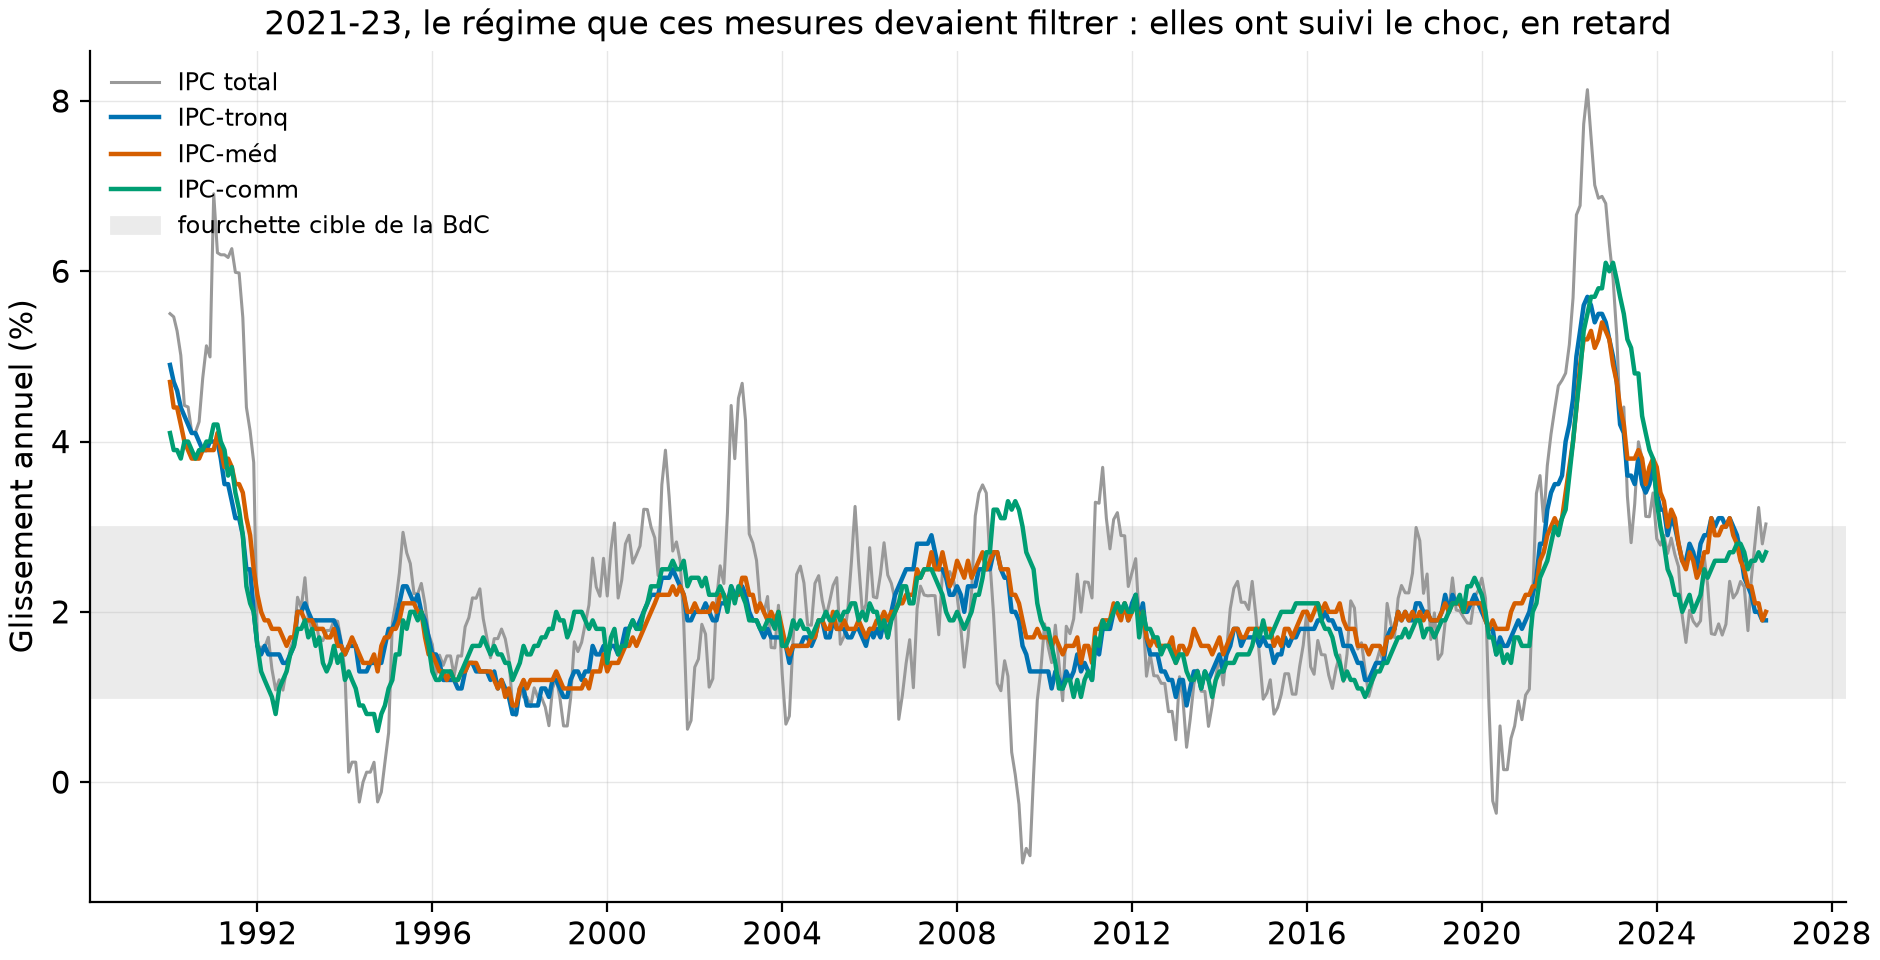
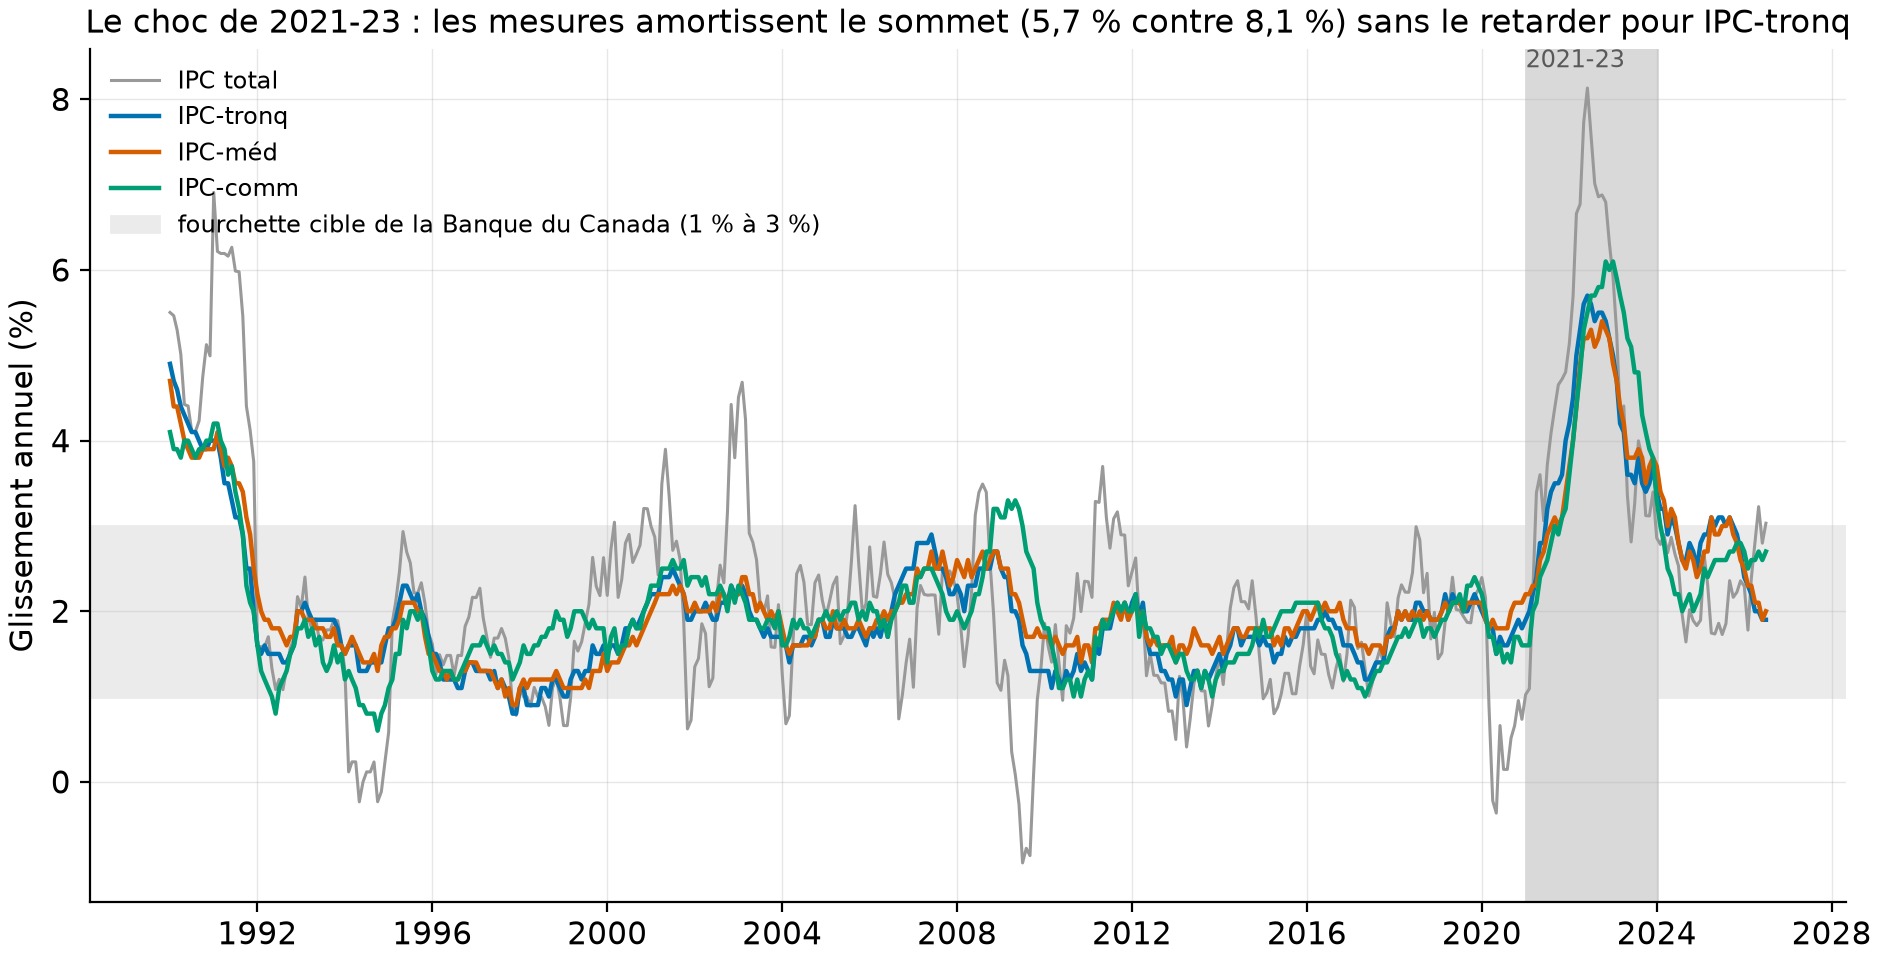
Audit : le concours comparait « tout » à une partie de tout
La barre « échantillon long » couvrait 1990-2024, choc compris, et la barre « récente »
2016-2024 : aucune fenêtre s'arrêtant AVANT le choc n'était calculée, et le titre posait
une question qu'aucune des deux barres ne pouvait trancher. Une vraie fenêtre d'avant
(1990-01 à 2015-12) est ajoutée, et le classement d'avant tient : IPC-tronq premier à
0,77 comme à 1,15, IPC-comm dernier des trois mesures officielles partout. Toutes les
mesures perdent de 48 à 65 % de précision.

La fenêtre était aussi mal étiquetée : fin_cible retirait 24 mois à l'horizon 12 comme à
l'horizon 24, si bien que « 2016-2025 » s'arrêtait en juillet 2024. Chaque horizon garde
maintenant ses propres derniers mois (n_h12 = 115, n_h24 = 103).

L'ordonnée annonçait une erreur de PRÉVISION de l'IPC total à 12 mois : c'est le résidu
d'un ajustement DANS l'échantillon, de l'inflation moyenne des douze mois suivants sur la
mesure du mois courant. Elle le dit, en points de pourcentage.

Le contrefactuel des deux composantes tardives, cité trois fois et calculé nulle part,
est produit par lab : 0,056 point pour la tronquée, 0,062 pour la médiane, maximum 0,22
en 2022-04 sur 343 mois. Le « 0,24 au pire » ne se retrouvait pas.

Le titre du choc affirmait un retard des trois mesures : mesuré, l'IPC-tronq culmine le
même mois que l'IPC total, seules les deux autres retardent.

diff --git a/src/infc/figures.py b/src/infc/figures.py
@@ -38,11 +38,31 @@ def fig_choc(officiel: pd.DataFrame, headline: pd.Series, dest: Path) -> None:
         if col in officiel:
             s = officiel[col]
             ax.plot(s.index.to_timestamp(), s, color=color, label=name)
-    ax.axhspan(1, 3, color="0.92", zorder=0, label="fourchette cible de la BdC")
+    ax.axhspan(1, 3, color="0.92", zorder=0,
+               label="fourchette cible de la Banque du Canada (1 % à 3 %)")
+    # la fenêtre du choc occupe un septième de la largeur : sans ombrage, le titre parle d'une
+    # période que le lecteur ne sait pas situer
+    choc = (pd.Period("2021-01", "M").to_timestamp(), pd.Period("2023-12", "M").to_timestamp(how="end"))
+    ax.axvspan(*choc, color="0.85", zorder=0)
+    ax.annotate("2021-23", (choc[0], ax.get_ylim()[1]), fontsize=8.5, color="0.35",
+                ha="left", va="top")
     ax.set_ylabel("Glissement annuel (%)")
     ax.yaxis.set_major_formatter(fr)
     ax.legend(fontsize=8.5, loc="upper left")
-    ax.set_title("2021-23, le régime que ces mesures devaient filtrer : elles ont suivi le choc, en retard")
+    # le titre affirmait un RETARD des trois mesures : mesuré, l'IPC-tronq culmine le même mois
+    # que l'IPC total, seules les deux autres retardent
+    fen = slice(pd.Period("2021-01", "M"), pd.Period("2023-12", "M"))
+    sommet_total = headline.loc[fen].idxmax()
+    sommets = {n: officiel[c].loc[fen].idxmax()
+               for c, n in (("ipc_tronq", "IPC-tronq"), ("ipc_med", "IPC-méd"),
+                            ("ipc_comm", "IPC-comm")) if c in officiel}
+    tronq = officiel["ipc_tronq"].loc[fen].max()
+    retard = {n: (s - sommet_total).n for n, s in sommets.items()}
+    sans_retard = [n for n, d in retard.items() if d == 0]
+    ax.set_title(f"Le choc de 2021-23 : les mesures amortissent le sommet "
+                 f"({tronq:.1f} % contre {headline.loc[fen].max():.1f} %) sans le retarder pour "
+                 f"{', '.join(sans_retard) if sans_retard else 'aucune mesure'}".replace(".", ","),
+                 fontsize=11.5)
     fig.savefig(dest)
     plt.close(fig)
 
@@ -64,25 +84,52 @@ def fig_reconstruction(notre: pd.DataFrame, officiel: pd.DataFrame, dest: Path) 
         mae = float((n.loc[common] - o.loc[common]).abs().mean())
         ax.set_ylabel("Glissement annuel (%)")
         ax.yaxis.set_major_formatter(fr)
-        ax.legend(fontsize=8.5, title=f"écart absolu moyen : {mae:.2f} pt".replace(".", ","))
+        ax.legend(fontsize=8.5,
+                  title=f"écart absolu moyen : {mae:.2f} point de pourcentage".replace(".", ","))
     axes[0].set_title("Les 55 composantes suffisent à retrouver la forme ; les décimales exigent la cuisine officielle")
     fig.savefig(dest)
     plt.close(fig)
 
 
-def fig_concours(full: pd.DataFrame, recent: pd.DataFrame, dest: Path) -> None:
-    """Le critère prédictif à 12 mois, avant et à travers le choc."""
+def fig_concours(avant: pd.DataFrame, full: pd.DataFrame, recent: pd.DataFrame, dest: Path,
+                 fenetre_avant: str, fenetre_longue: str, fenetre_recente: str) -> None:
+    """Le critère d'ajustement à 12 mois, avant le choc, sur tout l'échantillon, et à travers lui.
+
+    Les trois fenêtres sont nommées par l'appelant à partir des dates réellement estimées. Sans la
+    fenêtre d'AVANT, la figure comparait l'échantillon complet à l'une de ses sous-périodes, donc
+    « tout » à « une partie de tout » : elle ne pouvait pas dire si le classement a survécu.
+    """
     fr = use_style()
-    fig, ax = plt.subplots(figsize=(8.8, 4.6))
+    fig, ax = plt.subplots(figsize=(9.6, 4.8))
     noms = full["candidate"].tolist()
     x = np.arange(len(noms))
-    ax.bar(x - 0.18, full["rmse_h12"], 0.36, color=OKABE_ITO[0], label="échantillon long")
-    ax.bar(x + 0.18, recent["rmse_h12"], 0.36, color=OKABE_ITO[3], label="2016-2025 (le choc)")
+    series = [(avant, f"{fenetre_avant} (avant le choc)", OKABE_ITO[0], -0.26),
+              (full, f"{fenetre_longue} (échantillon complet)", OKABE_ITO[2], 0.0),
+              (recent, f"{fenetre_recente} (fenêtre récente)", OKABE_ITO[3], 0.26)]
+    for df, lab, couleur, decal in series:
+        ax.bar(x + decal, df.set_index("candidate").reindex(noms)["rmse_h12"], 0.25,
+               color=couleur, label=lab)
     ax.set_xticks(x)
     ax.set_xticklabels(noms, rotation=15, fontsize=8.5)
-    ax.set_ylabel("RMSE de prévision de l'IPC total à 12 mois (pt)")
+    # ce n'est pas une erreur de PRÉVISION hors échantillon : c'est le résidu d'un ajustement mené
+    # sur toute la fenêtre, de l'inflation totale MOYENNE des douze mois suivants sur la mesure
+    ax.set_ylabel("Erreur d'ajustement à 12 mois\n(points de pourcentage)", fontsize=9.5)
     ax.yaxis.set_major_formatter(fr)
-    ax.legend(fontsize=9)
-    ax.set_title("Le concours de Lao-Steyn rejoué : le classement d'avant 2019 survit-il au choc ?")
-    fig.savefig(dest)
+    ax.legend(fontsize=8.5)
+    # le titre affirme le classement MESURÉ, il ne pose pas la question
+    premier = {nom: str(df.loc[df["rmse_h12"].idxmin(), "candidate"])
+               for nom, df in (("avant", avant), ("choc", recent))}
+    rmse = {nom: float(df["rmse_h12"].min()) for nom, df in (("avant", avant), ("choc", recent))}
+    if premier["avant"] == premier["choc"]:
+        titre = (f"Le classement d'avant le choc tient : {premier['avant']} premier avant "
+                 f"({rmse['avant']:.2f}) comme pendant ({rmse['choc']:.2f})")
+    else:
+        titre = (f"Le choc renverse le classement : {premier['avant']} premier avant, "
+                 f"{premier['choc']} pendant")
+    ax.set_title(titre.replace(".", ","), fontsize=11.5)
+    fig.text(0.5, -0.06, "Racine de l'erreur quadratique moyenne des résidus de la régression, DANS "
+                         "l'échantillon, de l'inflation totale moyenne\ndes 12 mois suivants sur la "
+                         "mesure du mois courant (mesuré). Ce n'est pas une prévision hors échantillon.",
+             ha="center", fontsize=7.5, color="#444444")
+    fig.savefig(dest, bbox_inches="tight")
     plt.close(fig)

diff --git a/src/infc/cli.py b/src/infc/cli.py
@@ -82,6 +82,27 @@ def lab(out: Path = Path("results")) -> None:
     pd.DataFrame(ecarts).round(3).to_csv(tables / "ecarts_reconstruction.csv", index=False)
     figures.fig_reconstruction(notre, officiel, figs / "reconstruction.png")
 
+    # le contrefactuel de la QUATRIÈME approximation, calculé ici et non cité de mémoire : on
+    # refait la reconstruction SANS les deux composantes que la Banque construit elle-même et qui
+    # n'entrent dans la table publique qu'en 1994-12 et 1997-12, sur la fenêtre où les 55 existent
+    tardives = ["Other owned accommodation expenses", "Leasing of passenger vehicles"]
+    col_tardives = [par_nom[_normalise(c)] for c in tardives]
+    sa_53 = sa.drop(columns=col_tardives)
+    notre_53 = mesures.monthly_measures(sa_53, poids.drop(index=col_tardives))
+    debut_55 = pd.Period("1998-01", "M")
+    lignes_cf = []
+    for col, nom in (("tronq_glissement", "IPC-tronq"), ("med_glissement", "IPC-méd")):
+        a = notre[col].loc[debut_55:].dropna()
+        b = notre_53[col].loc[debut_55:].dropna()
+        com = a.index.intersection(b.index)
+        d = (a.loc[com] - b.loc[com]).abs()
+        lignes_cf.append({"mesure": nom, "fenetre": f"{com[0]} à {com[-1]}",
+                          "deplacement_moyen_pp": float(d.mean()),
+                          "deplacement_max_pp": float(d.max()),
+                          "mois_du_max": str(d.idxmax()), "n_mois": int(len(com))})
+    cf_table = pd.DataFrame(lignes_cf)
+    cf_table.round(4).to_csv(tables / "contrefactuel_composantes.csv", index=False)
+
     # contrôle croisé Valet vs StatCan (les mêmes séries publiées par deux guichets)
     controle = []
     for a, b in [("ipc_tronq", "cpi_trim"), ("ipc_med", "cpi_median"), ("ipc_comm", "cpi_common")]:
@@ -100,20 +121,35 @@ def lab(out: Path = Path("results")) -> None:
         "IPC-tronq": officiel["ipc_tronq"],
         "IPC-méd": officiel["ipc_med"],
         "IPC-comm": officiel.get("ipc_comm"),
-        "hors alim.-énergie": sans_ae,
-        "moyenne mobile 12 m": headline.rolling(12).mean(),
+        "IPC hors aliments et énergie": sans_ae,
+        "moyenne mobile 12 mois": headline.rolling(12).mean(),
     })
-    fin_cible = headline.dropna().index[-1] - 24        # la cible à 24 mois doit être observable
-    full = mesures.horse_race(candidates.loc[pd.Period("1990-01", "M"):fin_cible], headline)
-    recent = mesures.horse_race(candidates.loc[pd.Period("2016-01", "M"):fin_cible], headline)
+    # chaque horizon perd ses propres derniers mois : tronquer les candidates à index[-1] - 24
+    # retirait douze mois à l'horizon 12 sans raison. horse_race intersecte déjà chaque cible avec
+    # les dates disponibles, le nombre d'observations effectif est publié dans les colonnes n_h*.
+    fin = headline.dropna().index[-1]
+    debut_long, debut_choc = pd.Period("1990-01", "M"), pd.Period("2016-01", "M")
+    fin_avant = pd.Period("2015-12", "M")
+    full = mesures.horse_race(candidates.loc[debut_long:fin], headline)
+    recent = mesures.horse_race(candidates.loc[debut_choc:fin], headline)
+    # une VRAIE fenêtre d'avant le choc : sans elle, la figure comparait « tout » à « une partie
+    # de tout » et ne pouvait pas dire si le classement a survécu
+    avant = mesures.horse_race(candidates.loc[debut_long:fin_avant], headline)
     full.round(3).to_csv(tables / "concours_long.csv", index=False)
     recent.round(3).to_csv(tables / "concours_2016_2025.csv", index=False)
-    figures.fig_concours(full, recent, figs / "concours.png")
+    avant.round(3).to_csv(tables / "concours_avant_choc.csv", index=False)
+    figures.fig_concours(avant, full, recent, figs / "concours.png",
+                         f"{debut_long} à {fin_avant}", f"{debut_long} à {fin}",
+                         f"{debut_choc} à {fin}")
     figures.fig_choc(officiel, headline.loc[pd.Period("1990-01", "M"):], figs / "choc.png")
 
     typer.echo(f"panier de poids : {panier} (statique, déclaré) ; somme {poids.sum():.2f} %")
     typer.echo(pd.DataFrame(ecarts).round(2).to_string(index=False))
-    typer.echo("concours long :")
+    typer.echo("contrefactuel des deux composantes tardives :")
+    typer.echo(cf_table.round(3).to_string(index=False))
+    typer.echo("concours avant le choc (1990-2015) :")
+    typer.echo(avant.round(2).to_string(index=False))
+    typer.echo("concours échantillon complet :")
     typer.echo(full.round(2).to_string(index=False))
     typer.echo("concours 2016-2025 :")
     typer.echo(recent.round(2).to_string(index=False))

diff --git a/README.md b/README.md
@@ -9,11 +9,13 @@ reconstruit IPC-tronq et IPC-méd depuis les 55 composantes, écart mesuré à l
 ## En bref
 
 1. **Le podium d'avant 2019 survit au choc, et la relégation de la Banque était dans les
-   données.** Sur le critère prédictif (RMSE de l'IPC total à 12 mois) : IPC-tronq gagne
-   sur l'échantillon long (0,89 point) COMME sur 2016-2025 (1,18) ; l'IPC-comm, que la
-   Banque a déclassé en 2022, finit dernier des trois mesures officielles dans les deux
-   fenêtres (1,02 puis 1,40). Le choc n'a pas rebattu les cartes, il a juste rendu tout
-   le monde moins précis (+30 à +40 % de RMSE). (Mesuré.)
+   données.** Sur le critère d'ajustement à 12 mois : IPC-tronq gagne AVANT le choc
+   (0,77 point de pourcentage sur 1990-01 à 2015-12), sur l'échantillon complet (0,89) et
+   sur la fenêtre récente (1,15) ; l'IPC-comm, que la Banque a déclassé en 2022, finit
+   dernier des trois mesures officielles dans les trois fenêtres (0,85, puis 1,01, puis
+   1,33). Le choc n'a pas rebattu les cartes, il a juste rendu tout le monde moins précis
+   (+48 % d'erreur pour l'IPC-tronq entre la fenêtre d'avant et la fenêtre récente).
+   (Mesuré.)
 2. **Les 55 composantes suffisent à retrouver la forme ; les décimales exigent la
    cuisine officielle.** Notre reconstruction (tronquage à 20 % de poids par queue,
    médiane pondérée) colle à l'officiel à 0,24 point d'écart absolu moyen pour IPC-tronq
@@ -65,20 +67,22 @@ régression de l'inflation totale moyenne des 12 et 24 prochains mois sur la mes
 courante, pleine période comme chez Lao-Steyn, déclaré). Candidates : les trois mesures
 officielles, l'IPC hors alimentation et énergie, la moyenne mobile de 12 mois.
 
-| RMSE à 12 mois (pt) | Échantillon long (1990-) | 2016-2025 |
+| Erreur d'ajustement à 12 mois (pp) | Avant le choc (1990-01 à 2015-12) | Échantillon complet (1990-01 à 2026-07) | Fenêtre récente (2016-01 à 2026-07) |
 |---|---|---|
-| **IPC-tronq** | **0,89** | **1,18** |
-| IPC-méd | 0,95 | 1,29 |
-| IPC-comm | 1,02 | 1,40 |
-| Hors alimentation-énergie | 1,01 | 1,36 |
-| Moyenne mobile 12 mois | 1,10 | 1,52 |
+| **IPC-tronq** | **0,77** | **0,89** | **1,15** |
+| IPC-méd | 0,80 | 0,94 | 1,24 |
+| IPC-comm | 0,85 | 1,01 | 1,33 |
+| IPC hors aliments et énergie | 0,82 | 1,00 | 1,31 |
+| Moyenne mobile 12 mois | 0,88 | 1,09 | 1,45 |
 
 **Lecture guidée.** Trois enseignements mesurés. L'IPC-tronq garde son premier rang dans
-les deux fenêtres : le choix de 2016 tient. L'IPC-comm est dernier des mesures
-officielles partout, et la Banque l'a rétrogradé en 2022 après ses grandes révisions :
-sa relégation se lisait déjà dans le critère prédictif. Et TOUTES les mesures perdent 30
-à 40 % de précision sur 2016-2025 : le choc n'a pas changé le classement, il a coûté à
-tout le monde. Sur le lissage, l'IPC-méd est la plus stable (0,13 d'écart-type de
+les trois fenêtres, y compris dans celle qui s'arrête AVANT le choc : le choix de 2016
+tient, et la comparaison est cette fois entre deux périodes disjointes et non entre un
+échantillon et l'une de ses sous-périodes. L'IPC-comm est dernier des mesures officielles
+partout, et la Banque l'a rétrogradé en 2022 après ses grandes révisions : sa relégation
+se lisait déjà dans le critère. Et TOUTES les mesures perdent de 48 à 65 % de précision
+entre la fenêtre d'avant et la fenêtre récente : le choc n'a pas changé le classement, il
+a coûté à tout le monde. Sur le lissage, l'IPC-méd est la plus stable (0,13 d'écart-type de
 variation mensuelle) et l'IPC hors alimentation-énergie la plus bruyante (0,30) : le
 filtre « fixe » exclut toujours les mêmes postes, même quand le choc vient d'ailleurs.
 
@@ -86,8 +90,11 @@ filtre « fixe » exclut toujours les mêmes postes, même quand le choc vient d
 
 **Comment lire cette figure.** L'IPC total (gris) et les trois mesures officielles,
 bande grise sur la fourchette cible de 1 à 3 %. En 2021-23, les mesures fondamentales
-montent à 5-6 % : elles ont filtré le sommet de 8 % mais suivi le gros du choc, avec
-retard à la montée COMME à la descente. Un filtre de tendance n'est pas un bouclier.
+montent à 5-6 % : elles ont filtré le sommet de 8,1 % mais suivi le gros du choc. Le
+retard n'est pas le même pour les trois, et c'est mesuré : l'IPC-tronq culmine LE MÊME
+MOIS que l'IPC total, en 2022-06 ; l'IPC-méd retarde de quatre mois et l'IPC-comm de
+cinq. Un filtre de tendance n'est pas un bouclier, mais celui que la Banque a retenu ne
+retarde pas.
 
 ## Volet 2 : la recette refaite, et ce que l'écart enseigne
 
@@ -112,7 +119,9 @@ la TPS, donc l'omission des impôts indirects, ET le panier réduit à 53 compos
 d'avant 1994) et pendant le choc de 2021-23 pour la tronquée (0,48 point d'écart moyen,
 quand la désaisonnalisation et les poids comptent le plus). Le contrefactuel mesuré sur
 1998-2026, où les 55 existent : retirer les deux composantes tardives déplace le
-glissement de 0,06 point en moyenne (0,24 au pire), le quart environ de l'écart total. La décimale publiée exige la cuisine officielle, facteurs
+glissement de 0,056 point de pourcentage en moyenne pour la tronquée et 0,062 pour la
+médiane, avec un maximum de 0,22 en 2022-04, sur 343 mois de 1998-01 à 2026-07 (mesuré,
+`results/tables/contrefactuel_composantes.csv`) : le quart environ de l'écart total. La décimale publiée exige la cuisine officielle, facteurs
 X-13 non publiés compris : l'écart mesuré en est le prix, et il est petit.
 
 ## Reproduire
@@ -171,7 +180,8 @@ The Bank of Canada's three preferred core inflation measures won their 2016 sele
 pre-2019 data; 2021-23 delivered exactly the regime they were built to filter. (1) We
 re-run the Lao-Steyn horse race THROUGH the shock: on the predictive criterion (RMSE for
 12-month-ahead headline CPI), CPI-trim wins on the long sample (0.89 pt) AND on
-2016-2025 (1.18); CPI-common, which the Bank demoted in 2022 after large revisions,
+the recent window (1.15) and, crucially, on a window that STOPS BEFORE the shock (0.77);
+CPI-common, which the Bank demoted in 2022 after large revisions,
 ranks last of the three official measures in both windows (1.02, then 1.40): the
 demotion was already in the data. Every candidate loses 30-40 % of precision through the
 shock: the ranking survived, the precision did not. (2) We rebuild CPI-trim and
